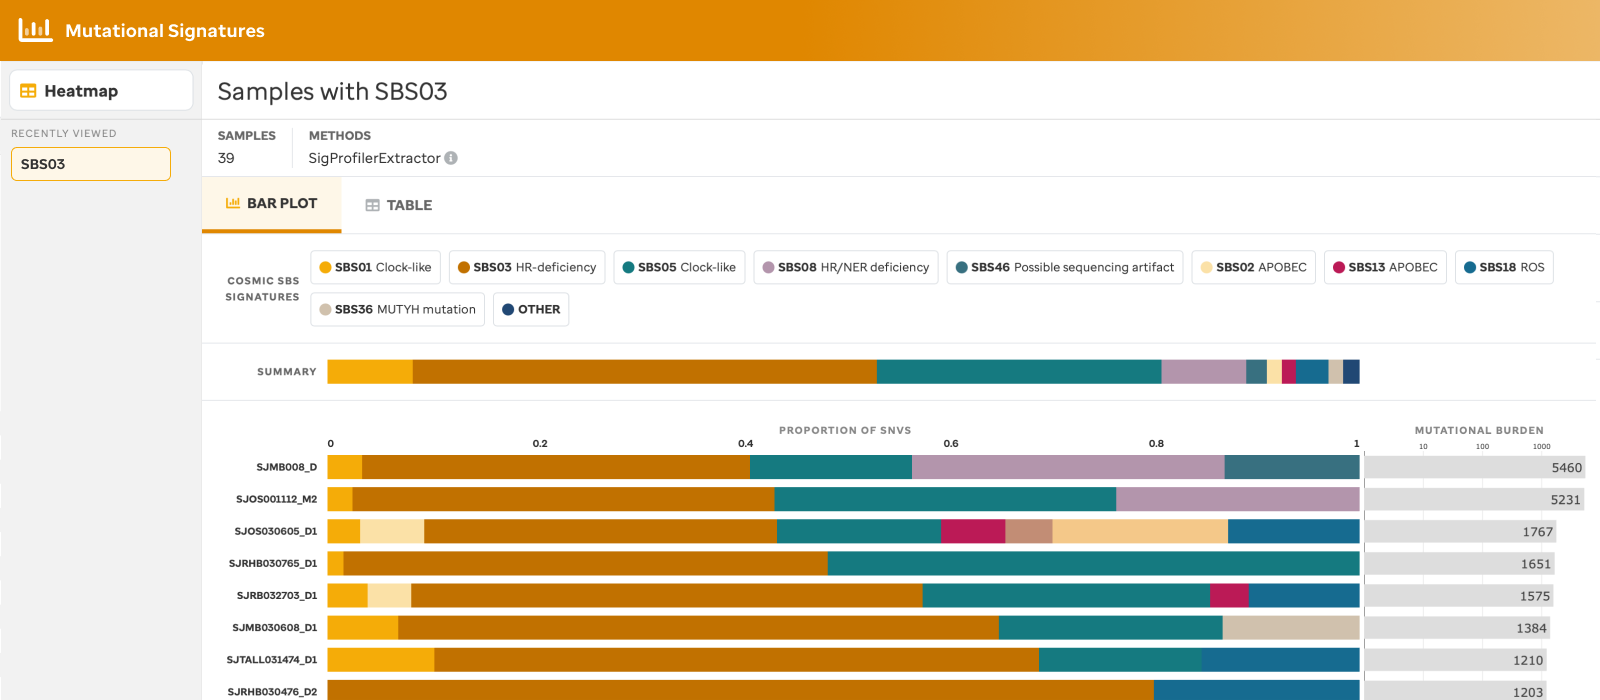
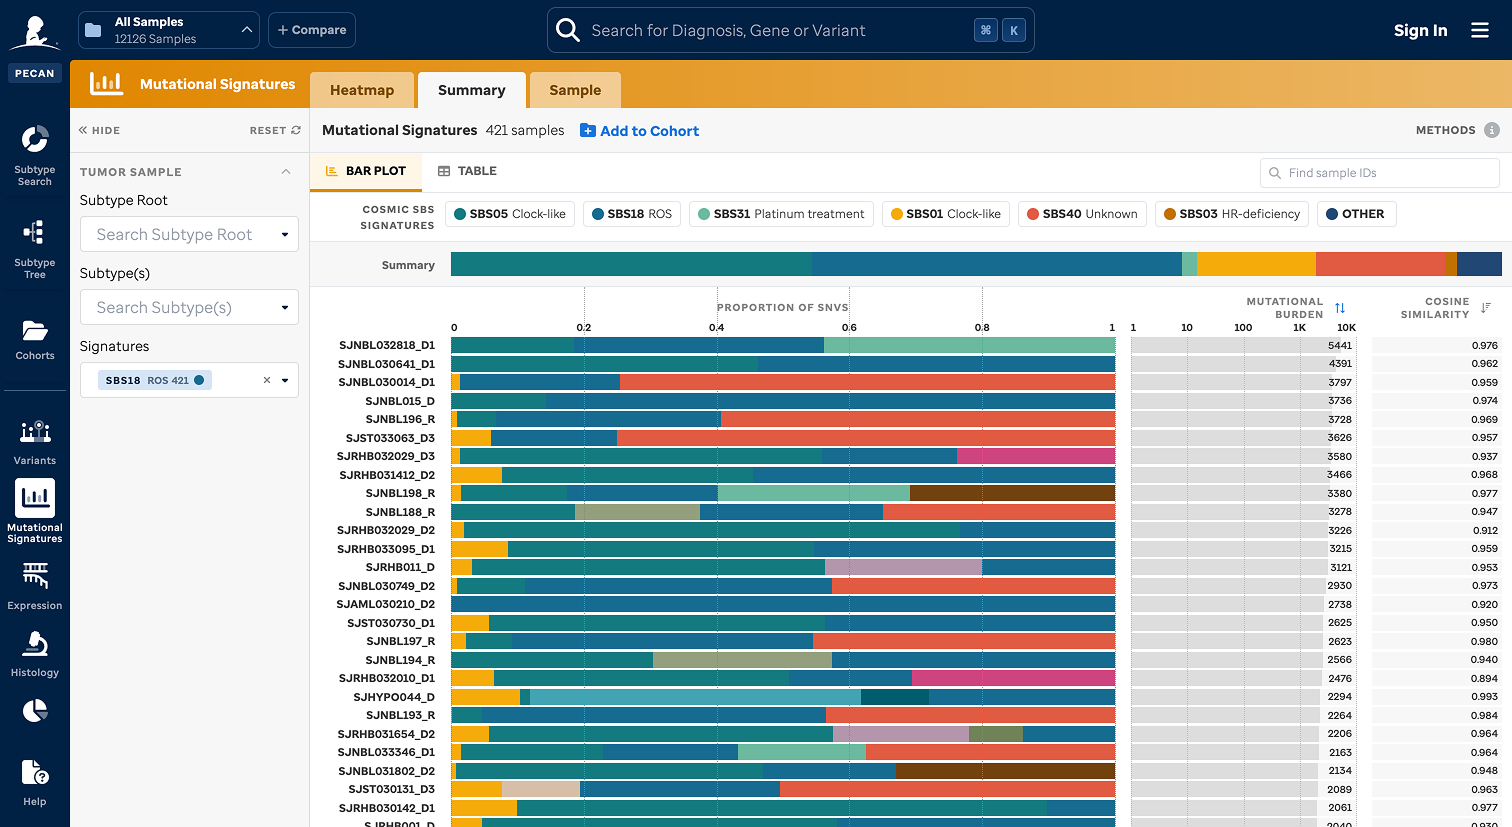
revise: Mutational Signatures docs, figures, and November release notes
- Update page text from the October 2026 revision doc (axes, Summary tab,
  cosine similarity, collapsible metadata, sample type)
- Describe subtype summary tab, new filters, and sample count of over 1,800
- Remove the Recently Viewed section
- Replace Figures 1-7 with current staging screenshots
- Add filters and subtype summary tab to November release notes

diff --git a/content/4.pecan/3.data-facets/2.mutational-signatures.md b/content/4.pecan/3.data-facets/2.mutational-signatures.md
@@ -5,30 +5,35 @@ title: Mutational Signatures
 ![Mutational Signatures](/img/pecan/overview/getting-started/mutational-signatures.svg)
 
 **Overview**
-Analysis of samples from St. Jude Children's Research Hospital, specifically from PCGP, Clinical Pilot, and G4K were demonstrated originally in the [Figure 5 of McLeod et al](https://cancerdiscovery.aacrjournals.org/content/11/5/1082.long).
+Analysis of samples from St. Jude Children's Research Hospital, specifically from PCGP, Clinical Pilot, and G4K were shown originally in [Figure 5 of McLeod et al](https://cancerdiscovery.aacrjournals.org/content/11/5/1082.long).
 Now, Real-time Clinical Genomics samples have been incorporated into the visualization.
 These samples are depicted via a heatmap where COSMIC single base substitution (SBS) mutational signatures in pediatric cancer subtypes were analyzed by WGS.
 
-## HEATMAP VIEW
+## Heatmap View
 
-Identification of COSMIC SBS signatures (v3.3) upon consideration of somatic variants was performed using SigProfilerExtractor (v1.1.20) on pediatric tumor samples grouped by subtype across 2000 samples (**Figure 1**).
-The user can explore a sample summary bar plot view by clicking the subtype (x-axis), SBS signature (y-axis), or the subtype with a particular SBS signature (cell).
+Identification of COSMIC SBS signatures (v3.3) upon consideration of somatic variants was performed using SigProfilerExtractor (v1.1.20) on pediatric tumor samples grouped by subtype across over 1,800 samples (**Figure 1**).
+Users can explore a sample summary bar plot view by clicking the subtype (y-axis), SBS signature (x-axis), the subtype with a particular SBS signature (cell), or the Summary tab.
+Use the Subtype Root, Subtype Search, and Signatures filters to narrow the heatmap to specific subtypes or COSMIC SBS signatures.
 
 ![heatmap](/img/pecan/data-facets/mutational-signatures/Heatmap.png)
 
 **Figure 1:**
 Heatmap View.
-The heatmap is comprised of sample data and COSMIC SBS mutational signatures that have greater than 0.8 cosine similarity.
+The heatmap is comprised of sample data and COSMIC SBS mutational signatures that have a cosine similarity greater than 0.8.
 
-## BAR PLOT VIEW
+## Summary
 
-A user can view a sample summary bar plot consisting of the mutational signatures (presented in the heatmap) within a given subtype in 3 separate ways: 1) samples by subtype (**Figure 2**), 2) samples by the COSMIC mutational signature (**Figure 3**), or 3) samples for a specific subtype with a specific mutational signature (**Figure 4**).
+Users can view a summary bar plot consisting of the mutational signatures within a given subtype in 4 separate ways: 1) samples by subtype (**Figure 2**), 2) samples by the COSMIC mutational signature (**Figure 3**), 3) samples for a specific subtype with a specific mutational signature (**Figure 4**), or 4) all samples via the Summary tab.
+
+Selecting a subtype takes you to a dedicated summary tab of all samples in that group (**Figure 2**).
+The tab includes a summary of the signatures observed in the samples, the proportion of SNVs per signature in each sample, the mutational burden, and the cosine similarity score, along with a metadata panel.
+Selecting a sample from the summary opens that sample in a new tab (see [Sample View](#sample-view)).
 
 ![subtype barplot](/img/pecan/data-facets/mutational-signatures/subtype_barplot.png)
 
 **Figure 2:**
 Subtype Selection from Heatmap View.
-This view allows a user to investigate COSMIC mutational signature summaries and mutational burden per sample cohort of a given subtype.
+This view allows a user to investigate COSMIC mutational signature summaries and mutational burden per sample of a given subtype.
 
 ![sbs barplot](/img/pecan/data-facets/mutational-signatures/SBS_barplot.png)
 
@@ -39,17 +44,17 @@ This view allows a user to investigate mutational signature summaries and mutati
 ![subtype sbs barplot](/img/pecan/data-facets/mutational-signatures/subtype_sbs_barplot.png)
 
 **Figure 4:**
-Subtype with a specific COSMIC SBS Selection from Heatmap View.
+Subtype with a specific COSMIC SBS selection from Heatmap View.
 This view allows a user to investigate mutational signature summaries and mutational burden per sample cohort of a given subtype with a specific COSMIC mutational signature.
 
-Each bar plot provides a title, the total number of samples, the method used to identify the mutational signatures, the summary of mutational signatures, the summary of mutational signatures per sample, and the mutational burden per sample.
+Each bar plot provides a title, the total number of samples, the method used to identify the mutational signatures, the summary of mutational signatures, the summary of mutational signatures per sample, the mutational burden per sample, and the cosine similarity score per sample.
 Additionally, clicking the mutational signature legend will provide summary data (e.g., total number of SNVs and % within that sample) and a link to the COSMIC website.
-Further, clicking the mutational burden per sample also provides a summary fo the sample name and total number of SNVs found within that individual sample.
+Selecting an individual sample ID opens that sample in a new tab with a summary of the sample name and total number of SNVs found within that individual sample.
 
-## TABLE VIEW
+## Table View
 
-A table view (**Figure 5**) is also available for each bar plot view so that a user can see the same information as the bar plot view but in a tabular manner.
-Sample ID, subtype, the total number of somatic SNVs, the existing mutational signature per sample, and the cosine similarity are given.
+A table view (**Figure 5**) is also available for each summary view so that users can see the same information as the bar plot view in a tabular manner.
+The table view includes Sample ID, subtype, sample type, the total number of somatic SNVs, the existing mutational signature per sample, and the cosine similarity.
 
 ![table view](/img/pecan/data-facets/mutational-signatures/table_view.png)
 
@@ -57,12 +62,12 @@ Sample ID, subtype, the total number of somatic SNVs, the existing mutational si
 Table View:
 The table view is an alternative to the bar plot view for each use case described in **Figures 2-4**.
 
-A user can select a mutational signature (column 4) and see a summary or the call to action to the COSMIC website.
+Users can select a mutational signature (column 4) and see a summary of the number and proportion of SNVs and/or a link to the COSMIC website.
 
-## SAMPLE VIEW
+## Sample View
 
-By selecting an individual sample, the user will navigate to a sample page view (**Figure 6 & 7**), this provides the number of mutations per codon for each base pair change.
-The sample metadata – diagnosis, data type, total somatic SNVs, and reference genome – is given in the top right.
+Selecting an individual sample will navigate users to a sample page view (**Figure 6 & 7**), which provides the number of mutations per codon for each base-pair change.
+The sample metadata – diagnosis, sample type, data type, total somatic SNVs, methods, cosine similarity, and reference genome – is available in a collapsible table to the right of the screen.
 The colors per base change are related to the COSMIC website.
 Additionally, each SBS mutational signature COSMIC depiction is given as a reference with a link to the website.
 
@@ -77,14 +82,3 @@ Mutations for each codon by base change for a particular sample with the COSMIC 
 **Figure 7:**
 Sample View, COSMIC Mutational Signature Reference.
 COSMIC mutational signature reference found in the sample to be used as a reference during analysis.
-
-An additional feature exists to allow the user to cache the last 5 samples per selection from the user experience.
-This can be helpful when analyzing samples together.
-Once the 6th sample is selected for that cohort, the first sample selected is removed, therefore the queue follows a first in last out methodology.
-The user can also remove samples individually (see hover x in the image) or a user can remove all samples by selecting the hover X button per header.
-
-![recently viewed](/img/pecan/data-facets/mutational-signatures/recently_viewed.png)
-
-**Figure 8:**
-Recently Viewed.
-Functionality to support investigation across samples.

diff --git a/content/4.pecan/6.release-notes/1.index.md b/content/4.pecan/6.release-notes/1.index.md
@@ -17,6 +17,10 @@ If you have any questions, feel free to reach out to us at [support@stjude.cloud
 This release extends cohort building to the Mutational Signatures data facet.
 
 - **Cohort View in Mutational Signatures:** Bring a custom cohort into Mutational Signatures to explore that facet's visualizations and data scoped to just your cohort's samples, rather than the full PeCan dataset.
+- **Filters:** Narrow the heatmap with new Subtype Root, Subtype Search, and Signatures filters.
+- **Subtype summary tab:** Selecting a subtype opens a dedicated summary tab of all samples in that group, showing the signatures observed, the proportion of SNVs per signature in each sample, mutational burden, and cosine similarity score.
+The summary tab also includes a metadata panel.
+Selecting a sample from the summary opens it in a new tab.
 
 We plan to continue expanding cohort support across the application, including St. Jude Cloud curated cohorts and cohort views in Variant Prevalence.
 Please share any feedback or questions with [support@stjude.cloud](mailto:support@stjude.cloud).
